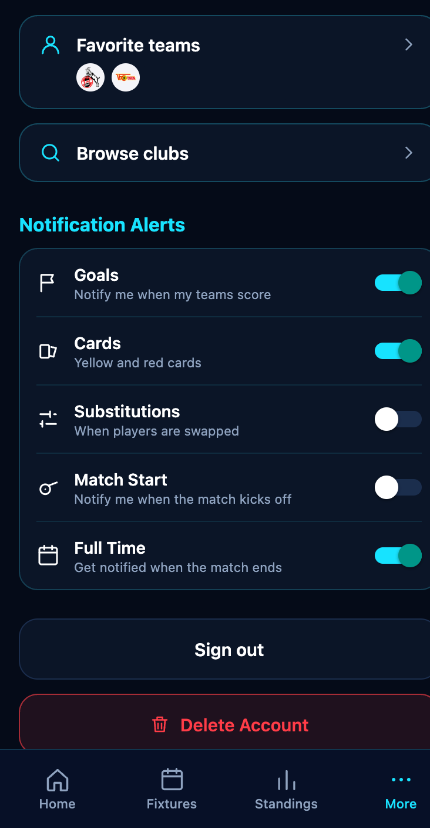
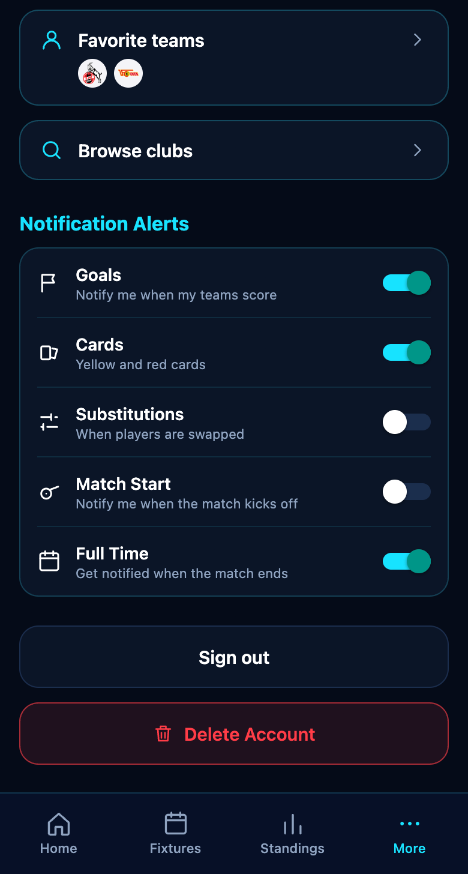
fix: showcase screenshots retaken full width so every screen sits inside its phone frame (#20)
The first capture had cut 24 px off the right edge and the frame's aspect did not match the images. All four screens retaken, alerts scrolled so it fills the screen, screens now swap one after the other, example alerts moved off titles. Checked on desktop and at 500 px wide, not on a real phone.

diff --git a/site/index.html b/site/index.html
@@ -33,7 +33,7 @@
           <div class="rings" aria-hidden="true"><i></i><i></i><i></i></div>
           <div class="phone hero-phone" ><div class="bezel"><div class="screen">
 <div class="status"><span class="clock">9:41</span><i class="island"></i><span class="sys"><b class="sig"></b><b class="batt"></b></span></div>
-<img src="/shots/home.png" width="430" height="884" alt="ScorePulse home screen with live matches and the day's fixtures" class="on" /></div></div></div>
+<img src="/shots/home.png" width="468" height="874" alt="ScorePulse home screen with live matches and the day's fixtures" class="on" /></div></div></div>
           <div class="toasts" aria-hidden="true">
             <div class="toast t1"><span class="ico goal"></span><div><p><b>ScorePulse</b><em>now</em></p><strong>Goal! 74'</strong><span>Your club goes 2-1 up</span></div></div>
             <div class="toast t2"><span class="ico card"></span><div><p><b>ScorePulse</b><em>now</em></p><strong>Yellow card, 41'</strong><span>A booking for your side</span></div></div>
@@ -52,28 +52,28 @@
               <p class="fine">Find any club in the top leagues by country, or by name.</p>
               <div class="phone mini" ><div class="bezel"><div class="screen">
 <div class="status"><span class="clock">9:41</span><i class="island"></i><span class="sys"><b class="sig"></b><b class="batt"></b></span></div>
-<img src="/shots/alerts.png" width="430" height="828" alt="Notification settings with a switch for goals, cards, substitutions, match start and full time" class="on" loading="lazy"/></div></div></div>
+<img src="/shots/alerts.png" width="468" height="874" alt="Notification settings with a switch for goals, cards, substitutions, match start and full time" class="on" loading="lazy"/></div></div></div>
             </article>
             <article class="step" data-shot="standings">
               <h2>The table, as it stands</h2>
               <p>Premier League, La Liga, Bundesliga, Ligue 1 and the Champions League. The top four are marked, and your own clubs are lit up so you find them fast.</p>
               <div class="phone mini" ><div class="bezel"><div class="screen">
 <div class="status"><span class="clock">9:41</span><i class="island"></i><span class="sys"><b class="sig"></b><b class="batt"></b></span></div>
-<img src="/shots/standings.png" width="430" height="884" alt="Premier League table with the top four marked" class="on" loading="lazy"/></div></div></div>
+<img src="/shots/standings.png" width="468" height="874" alt="Premier League table with the top four marked" class="on" loading="lazy"/></div></div></div>
             </article>
             <article class="step" data-shot="team">
               <h2>A whole season, one tap away</h2>
               <p>Open any club to see every result and every fixture still to come, month by month. Tap a match for the timeline, the line-ups and the stats.</p>
               <div class="phone mini" ><div class="bezel"><div class="screen">
 <div class="status"><span class="clock">9:41</span><i class="island"></i><span class="sys"><b class="sig"></b><b class="batt"></b></span></div>
-<img src="/shots/team.png" width="430" height="884" alt="A club's season listed month by month, results and upcoming fixtures" class="on" loading="lazy"/></div></div></div>
+<img src="/shots/team.png" width="468" height="874" alt="A club's season listed month by month, results and upcoming fixtures" class="on" loading="lazy"/></div></div></div>
             </article>
           </div>
           <div class="sticky">
             <div class="rings soft-rings" aria-hidden="true"><i></i><i></i></div>
             <div class="phone big" data-stack><div class="bezel"><div class="screen">
 <div class="status"><span class="clock">9:41</span><i class="island"></i><span class="sys"><b class="sig"></b><b class="batt"></b></span></div>
-<img src="/shots/alerts.png" width="430" height="828" alt="Notification settings with a switch for goals, cards, substitutions, match start and full time" class="on" /><img src="/shots/standings.png" width="430" height="884" alt="Premier League table with the top four marked" class="" loading="lazy"/><img src="/shots/team.png" width="430" height="884" alt="A club's season listed month by month, results and upcoming fixtures" class="" loading="lazy"/></div></div></div>
+<img src="/shots/alerts.png" width="468" height="874" alt="Notification settings with a switch for goals, cards, substitutions, match start and full time" class="on" /><img src="/shots/standings.png" width="468" height="874" alt="Premier League table with the top four marked" class="" loading="lazy"/><img src="/shots/team.png" width="468" height="874" alt="A club's season listed month by month, results and upcoming fixtures" class="" loading="lazy"/></div></div></div>
           </div>
         </div>
       </section>

diff --git a/site/src/style.css b/site/src/style.css
@@ -65,9 +65,9 @@ h2 { font-size: clamp(2.2rem, 5vw, 3.6rem); margin-bottom: 18px; }
   background: linear-gradient(155deg, #2a4a69 0%, #0c1b2c 38%, #14304a 100%);
   box-shadow: 0 0 0 1.5px #0a1522, 0 40px 90px -34px rgb(25 227 255 / 0.35), 0 24px 50px -24px #000;
 }
-.screen { position: relative; overflow: hidden; border-radius: calc(var(--pw) * 0.14); aspect-ratio: 430 / 929; background: var(--night); }
+.screen { position: relative; overflow: hidden; border-radius: calc(var(--pw) * 0.14); aspect-ratio: 468 / 921; background: var(--night); }
 .screen img { position: absolute; left: 0; bottom: 0; width: 100%; height: auto; display: block; }
-.status { position: absolute; z-index: 3; inset: 0 0 auto 0; height: 4.7%; padding: 0 7%; display: flex; align-items: center; justify-content: space-between; font: 600 calc(var(--pw) * 0.036)/1 var(--body); color: var(--chalk); }
+.status { position: absolute; z-index: 3; inset: 0 0 auto 0; height: 5.1%; padding: 0 7%; display: flex; align-items: center; justify-content: space-between; font: 600 calc(var(--pw) * 0.036)/1 var(--body); color: var(--chalk); }
 .island { position: absolute; left: 50%; top: 26%; width: 26%; height: 54%; transform: translateX(-50%); border-radius: 99px; background: #000; }
 .sys { display: flex; align-items: center; gap: 5px; }
 .sig { width: 14px; height: 9px; background: linear-gradient(90deg, currentColor 0 18%, transparent 18% 27%, currentColor 27% 45%, transparent 45% 54%, currentColor 54% 72%, transparent 72% 81%, currentColor 81%); clip-path: polygon(0 100%, 0 70%, 27% 70%, 27% 45%, 54% 45%, 54% 20%, 81% 20%, 81% 0, 100% 0, 100% 100%); }
@@ -110,9 +110,9 @@ h2 { font-size: clamp(2.2rem, 5vw, 3.6rem); margin-bottom: 18px; }
 .ico.goal { background: var(--amber); } .ico.goal::after { box-shadow: inset 0 0 0 3px var(--amber), inset 0 0 0 5px var(--night); background: transparent; }
 .ico.card { background: var(--amber); } .ico.card::after { border-radius: 2px; width: 11px; height: 16px; background: var(--night); }
 .ico.whistle::after { width: 15px; height: 4px; border-radius: 2px; background: var(--night); }
-.t1 { left: -20%; top: 30%; animation-delay: 1.8s; }
-.t2 { right: -20%; top: 54%; animation-delay: 6.8s; }
-.t3 { left: -16%; bottom: 22%; animation-delay: 11.8s; }
+.t1 { left: -22%; top: 62%; animation-delay: 1.8s; }
+.t2 { right: -26%; top: 11%; animation-delay: 6.8s; }
+.t3 { right: -26%; top: 64%; animation-delay: 11.8s; }
 @keyframes toast {
   0% { opacity: 0; transform: translateY(-22px) scale(0.94); }
   3%, 28% { opacity: 1; transform: none; }
@@ -130,8 +130,9 @@ h2 { font-size: clamp(2.2rem, 5vw, 3.6rem); margin-bottom: 18px; }
 .sticky { position: sticky; top: 0; height: 100vh; display: grid; place-items: center; }
 .sticky .rings { inset: 10% 0; } .soft-rings i { width: 80%; }
 .big { --pw: min(320px, 80vw); transition: transform 0.7s var(--ease); transform: rotate(var(--tilt, 0deg)); }
-.big .screen img { opacity: 0; transform: translateY(26px) scale(0.985); transition: opacity 0.5s ease, transform 0.7s var(--ease); }
-.big .screen img.on { opacity: 1; transform: none; }
+.big .screen img { opacity: 0; transform: translateY(26px) scale(0.985); transition: opacity 0.22s ease, transform 0.22s ease; }
+/* the new screen waits for the old one to leave, so the two never show through each other */
+.big .screen img.on { opacity: 1; transform: none; transition: opacity 0.45s ease 0.2s, transform 0.7s var(--ease) 0.2s; }
 
 .plain { max-width: 1100px; margin: 0 auto; padding: clamp(56px, 9vw, 120px) var(--gutter); border-top: 1px solid var(--line); }
 .plain dl { display: grid; grid-template-columns: repeat(3, minmax(0, 1fr)); gap: 40px; margin-top: 24px; }
@@ -155,7 +156,7 @@ footer { display: flex; flex-wrap: wrap; justify-content: space-between; gap: 8p
   .hero { grid-template-columns: 1fr; }
   .stage { margin-top: 8px; padding-bottom: 56px; }
   .toast { width: 60%; }
-  .t1 { left: 0; } .t2 { right: 0; } .t3 { left: 0; }
+  .t1 { left: 0; } .t2 { right: 0; } .t3 { right: 0; }
   .tour-inner { grid-template-columns: 1fr; }
   .sticky { display: none; }
   .step { min-height: 0; opacity: 1; padding: 56px 0; border-top: 1px solid var(--line); }
